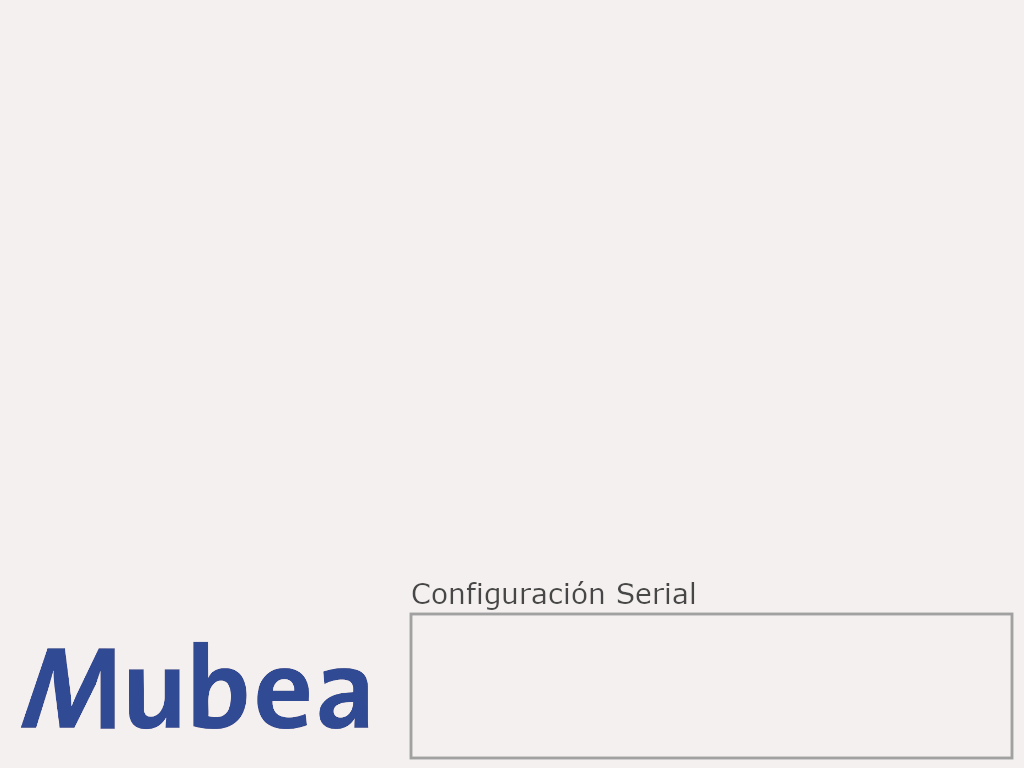
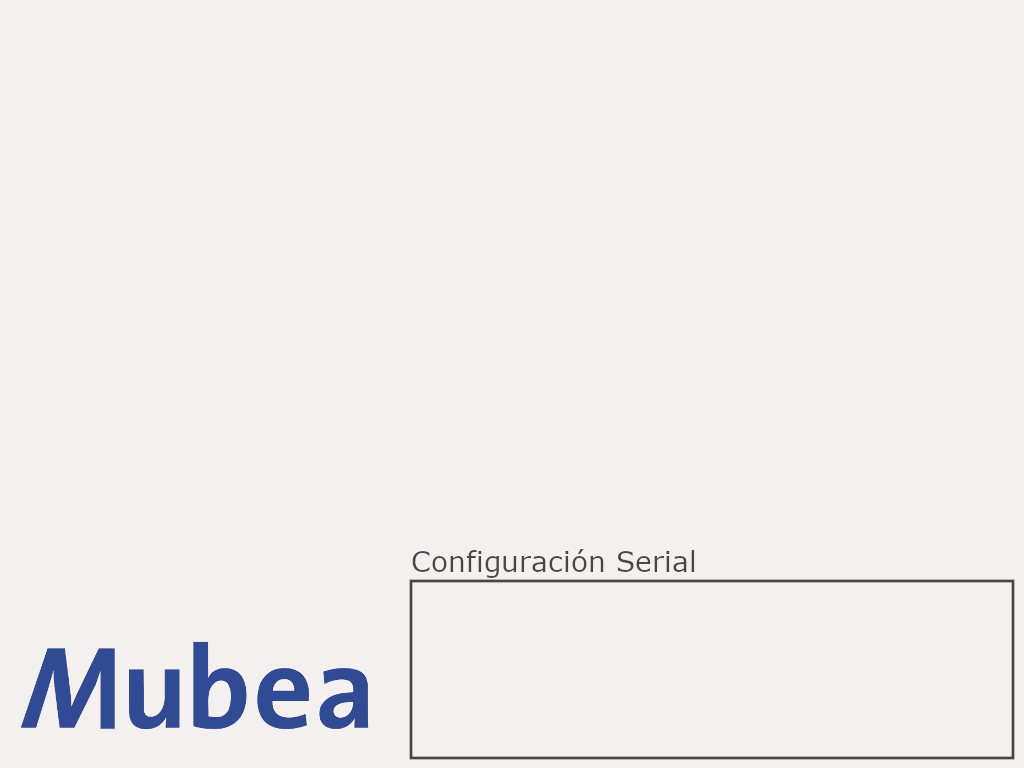
super update

Changed region(s): [[0.375, 0.7188, 1.0, 1.0]]

diff --git a/mainp.py b/mainp.py
@@ -172,49 +172,69 @@ class Passwordchecker(tk.Frame):
 			globals()[a_temp].configure(text = rows[i-1][4])
 			#self.selector is the function inside the main class
 			globals()[a_temp].configure(command=partial(self.Selector, int(rows[i-1][5])))
-##### tkinter stuff that is unique, such as only one Listbox, needs to be declared like this
-		#declare a Listbox with ".self" at the beginning of the variable. It helps the variable to be reachable outside here.
-		#self.parent is the location of the tkinter core.
-		#self.comList = Listbox(self.parent, width=12, height=8)
-		#place it
-		#self.comList.place(x =418,y=620)
+
 		#call the port selector function and retrieve all available COM ports.
 		portList = serial_ports()
-		#for seriales in portList:
-		#	self.comList.insert(0,seriales)
 
+######### Create Dropdown menus for COM options 
 		#ComPort.
-		
 		self.ComList = StringVar()
-		self.ComList.set("Choose Port")
-		dropdown1 = OptionMenu(self.parent,self.ComList,portList)
-		dropdown1.place(x=418,y=620)
-		dropdown1.configure(width=10)
+		self.ComList.set("Elige Puerto")
+		dropdown1 = OptionMenu(self.parent,self.ComList,*portList)
+		dropdown1.place(x=418,y=590)
+		dropdown1.configure(width=14)
 
-		#area to deploy ComPort options.
+		#Speed.
 		speeds = [9600,19200,38400,57600,115200]
 		self.baudRate1 = StringVar()
-		self.baudRate1.set("Choose Speed")
+		self.baudRate1.set("Elige Baudios")
 		dropdown2 = OptionMenu(self.parent,self.baudRate1,*speeds)
-		dropdown2.place(x=418,y=650)
-		dropdown2.configure(width=10)
+		dropdown2.place(x=418,y=620)
+		dropdown2.configure(width=14)
 
+		#Parity
+		parity = [serial.PARITY_EVEN,serial.PARITY_NONE,serial.PARITY_ODD]
+		self.Parity1 = StringVar()
+		self.Parity1.set("Elige Paridad")
+		dropdown3 = OptionMenu(self.parent,self.Parity1,*parity)
+		dropdown3.place(x=418,y=650)
+		dropdown3.configure(width=14)
+
+		#stop_bits
+		sbits = [serial.STOPBITS_ONE,serial.STOPBITS_ONE_POINT_FIVE,serial.STOPBITS_TWO]
+		self.stopBits1 = IntVar()
+		self.stopBits1.set("Elige Bits")
+		dropdown4 = OptionMenu(self.parent,self.stopBits1,*sbits)
+		dropdown4.place(x=418,y=680)
+		dropdown4.configure(width=14)
+
+		#byte_size
+		byte_s = [serial.EIGHTBITS,serial.FIVEBITS,serial.SIXBITS,serial.SEVENBITS]
+		self.byteSize1 = IntVar()
+		self.byteSize1.set("Tamaño Bits")
+		dropdown5 = OptionMenu(self.parent,self.byteSize1,*byte_s)
+		dropdown5.place(x=418,y=710)
+		dropdown5.configure(width=14)
 
 ##########Selector is the function that commands buttons actions
 	def Selector(self,num):
 		global ComPort
 		global baud_Rate
+		global Parity_data
+		global stop_bits
+		global byte_size
+		#Variable declaration starts here
 		ComPort = self.ComList.get()
 		baud_Rate = self.baudRate1.get()
+		Parity_data = self.Parity1.get()
+		stop_bits = self.stopBits1.get()
+		byte_size = self.byteSize1.get()
+		#go to def run() in thread 2 config to pass these variables to the method1 second thread.
+		
+		#### area to check if the info coming from the optionmenu is valid and all the option menus were opened and selected.
+		
 		#button to Open COM
 		if num == 10:
-			#clean the var
-			#ComPort = ""
-			#this loops the listbox to find which port is selected.
-			#for i in self.comList.curselection():
-			#	ComPort = self.comList.get(i)
-			#when this for loop ends, a "COM9" text must be stored,
-			#this if checks if the text "COM" exists in the variable "ComPort"
 			if "COM" in ComPort:
 				try:
 					#Try to start the Serial Process Thread
@@ -256,15 +276,14 @@ class Passwordchecker(tk.Frame):
 			self.parent.destroy()
 			self.parent.quit()
 
-	def method1(self,ComPort,baudRate): 
+	def method1(self,ComPort,baudRate,Parity_data,stop_bits,byte_size): 
 		#This is the area where the second thread lives.
-		print(ComPort,baudRate)
 		self.ser = serial.Serial(
 				port=ComPort,\
 				baudrate=baudRate,\
-				parity=serial.PARITY_NONE,\
-				stopbits=serial.STOPBITS_ONE,\
-				bytesize=serial.EIGHTBITS,\
+				parity=Parity_data,\
+				stopbits=stop_bits,\
+				bytesize=byte_size,\
 				timeout=1)
 		#A notice that the COM has been opened
 		print("connected to: " + self.ser.portstr)
@@ -291,7 +310,6 @@ class Passwordchecker(tk.Frame):
 			label_data = str(s)[2:-3]
 			#prevent data process if label_data is 0 characters long.
 			if finish == False and len(label_data)>0:
-				print(len(label_data))
 				print(f"Shop Order is {label_data[0:6]} and type {label_data[6:9]} and standard pack {label_data[9:12]}  ")
 				ShopOrder = label_data[0:6]
 				BoxType = label_data[6:9]
@@ -320,7 +338,7 @@ class Process(threading.Thread):
 		global finish
 		#while not finish:
 			#do not start serial until com info is selected.
-		run1.method1(ComPort,baud_Rate)
+		run1.method1(ComPort,baud_Rate,Parity_data,stop_bits,byte_size)
 		time.sleep(3)
 	
 	def stop(self):
